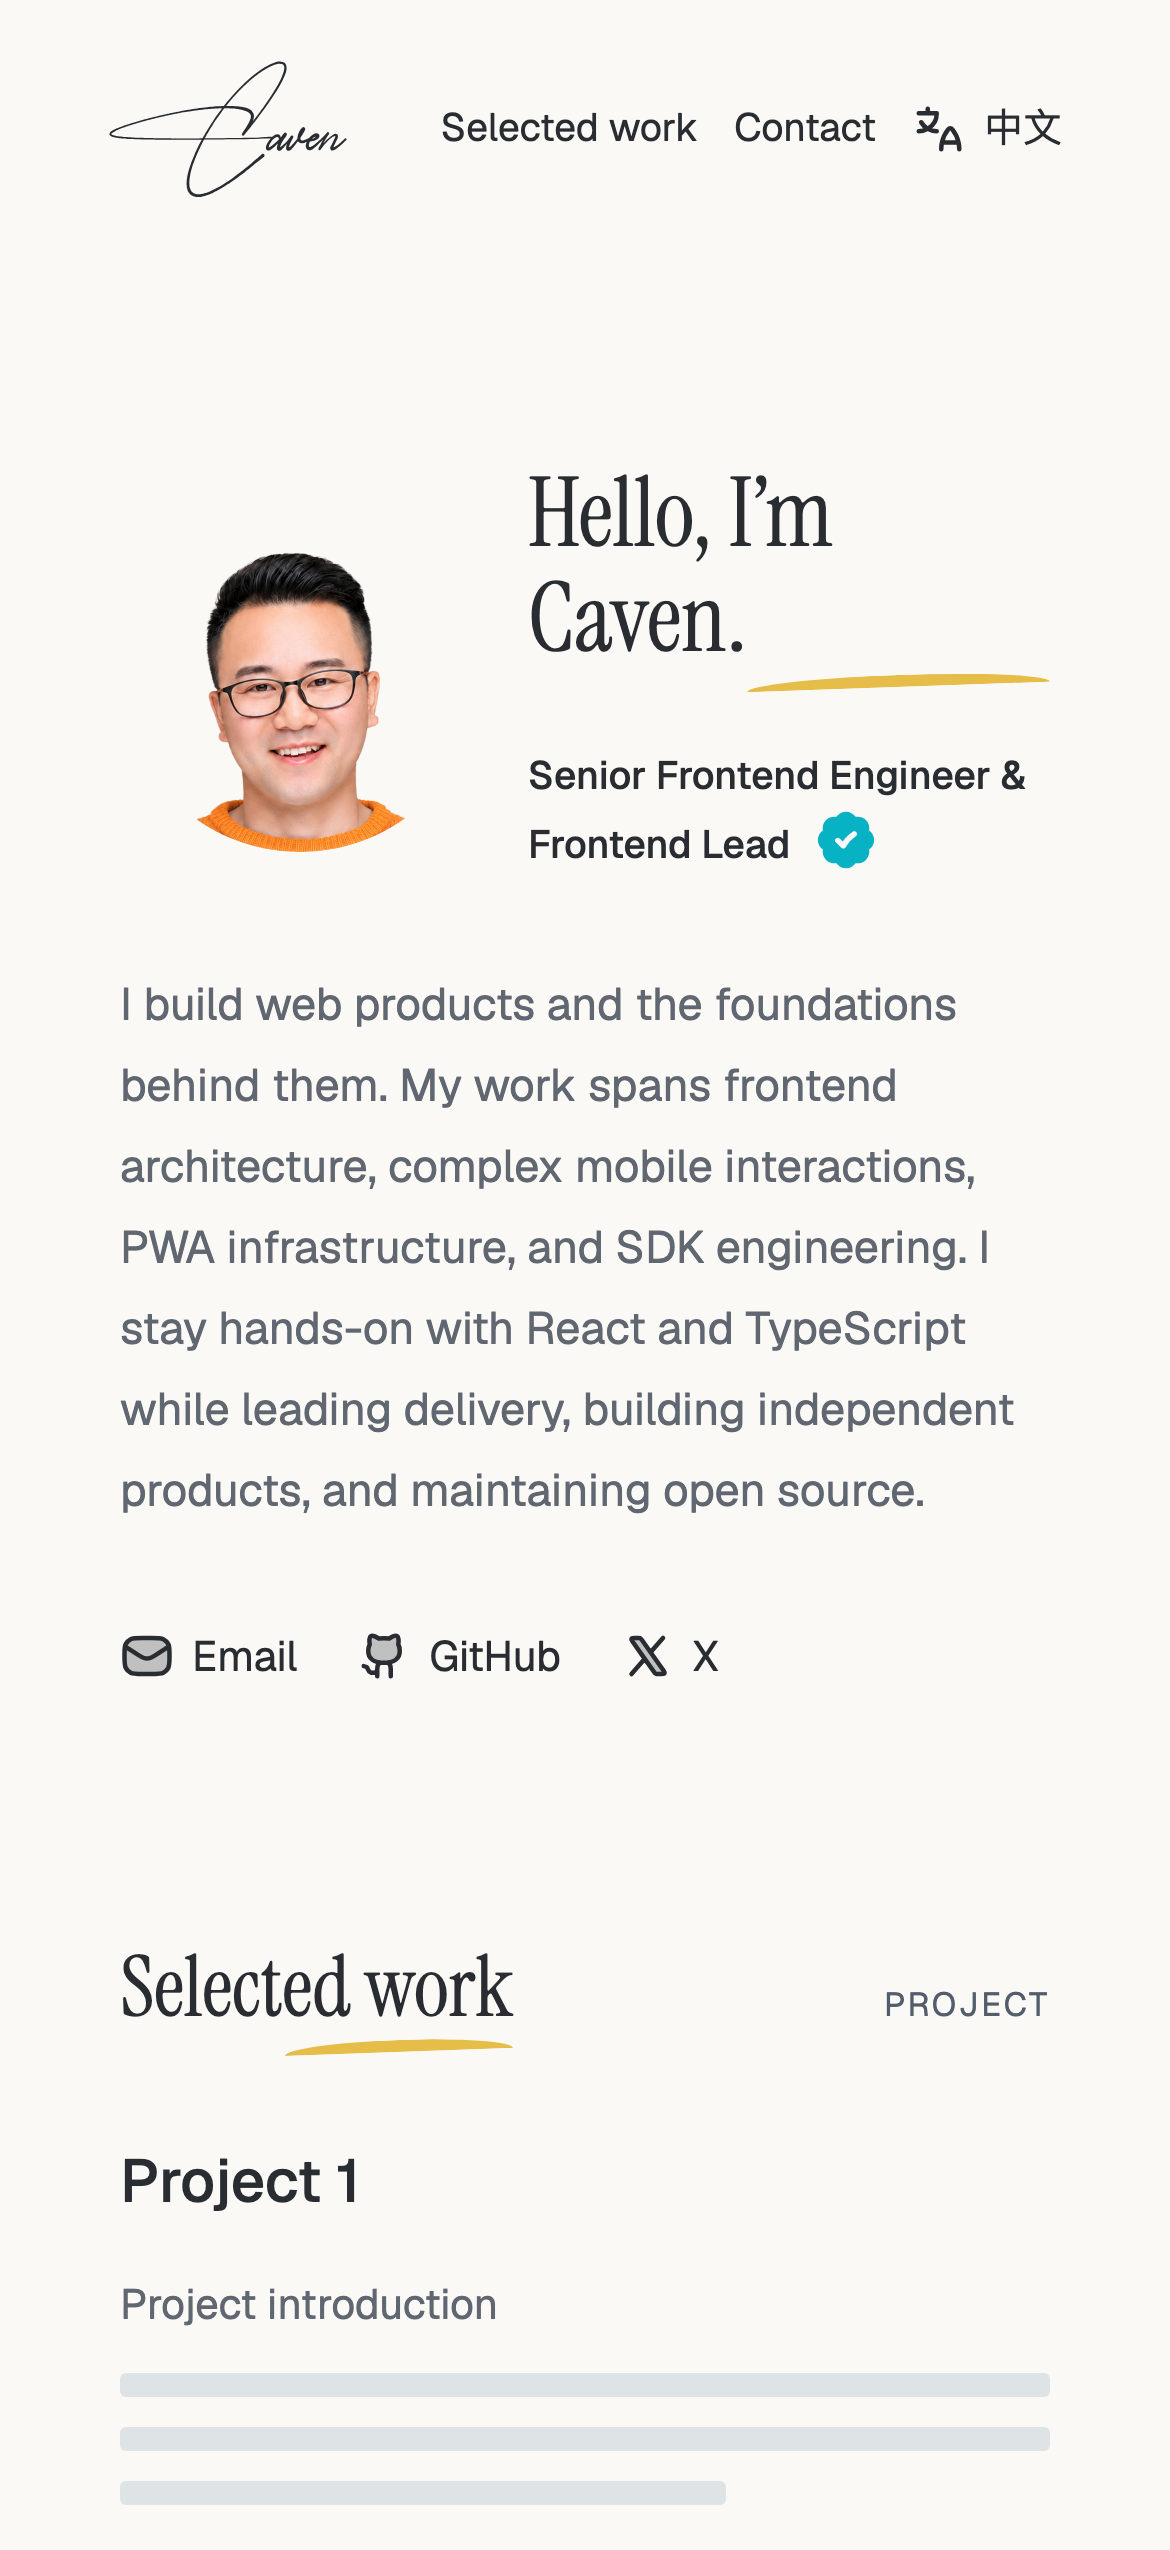
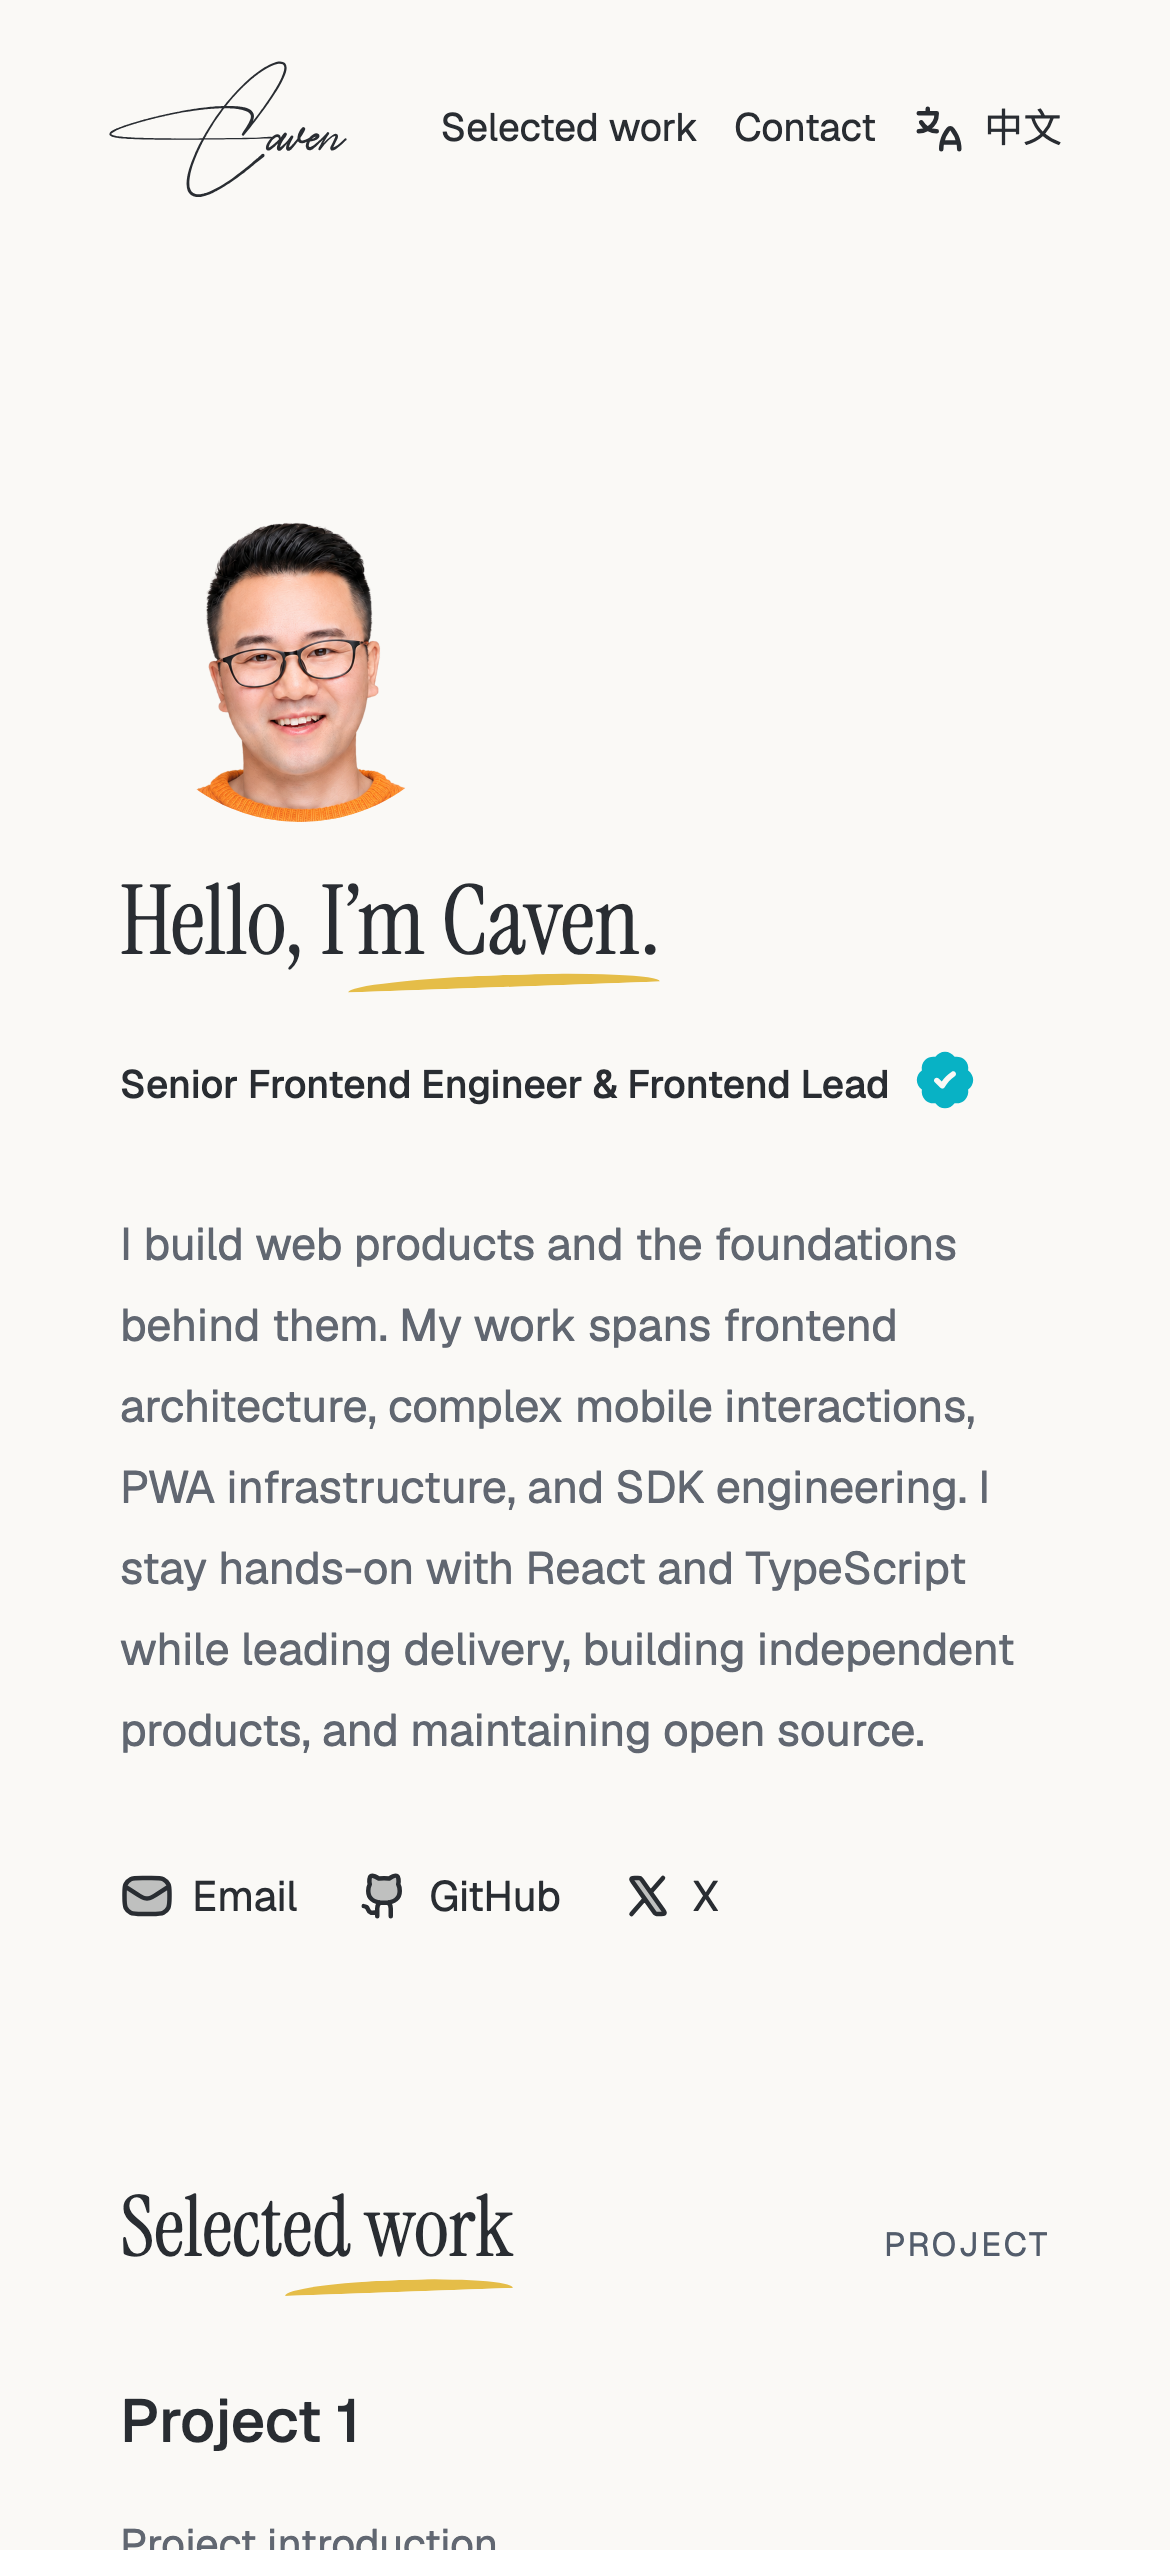
fix: stack portrait above greeting on narrow screens

diff --git a/tests/identity.test.ts b/tests/identity.test.ts
@@ -220,3 +220,18 @@ test("email hint is hoverable and dismissible, and social links open new tabs", 
     }
   }
 });
+
+test("portrait sits above the greeting on narrow screens and beside it on desktop", async ({
+  page,
+}) => {
+  await page.goto("/");
+  for (const width of [320, 390, 1280]) {
+    await page.setViewportSize({ width, height: 850 });
+    const portrait = await page.locator(".portrait-frame").boundingBox();
+    const heading = await page.getByRole("heading", { level: 1 }).boundingBox();
+    if (!portrait || !heading) throw new Error("Introduction missing");
+    expect(portrait.width).toBe(120);
+    if (width < 600) expect(portrait.y + portrait.height).toBeLessThanOrEqual(heading.y);
+    else expect(portrait.x + portrait.width).toBeLessThan(heading.x);
+  }
+});

diff --git a/src/styles/global.css b/src/styles/global.css
@@ -366,7 +366,7 @@ h3 {
     padding: 20px;
   }
   .intro-layout {
-    grid-template-columns: 120px minmax(0, 1fr);
+    grid-template-columns: minmax(0, 1fr);
     gap: 16px;
   }
   .intro-layout h1 {
@@ -622,4 +622,16 @@ html {
 
 .intro-layout .hand-underlined {
   display: inline-block;
+}
+
+.intro-contact-row {
+  display: flex;
+  flex-wrap: wrap;
+  align-items: center;
+  justify-content: space-between;
+  gap: 12px 24px;
+  margin-top: 20px;
+}
+.intro-contact-row .intro-contacts {
+  margin-top: 0;
 }
